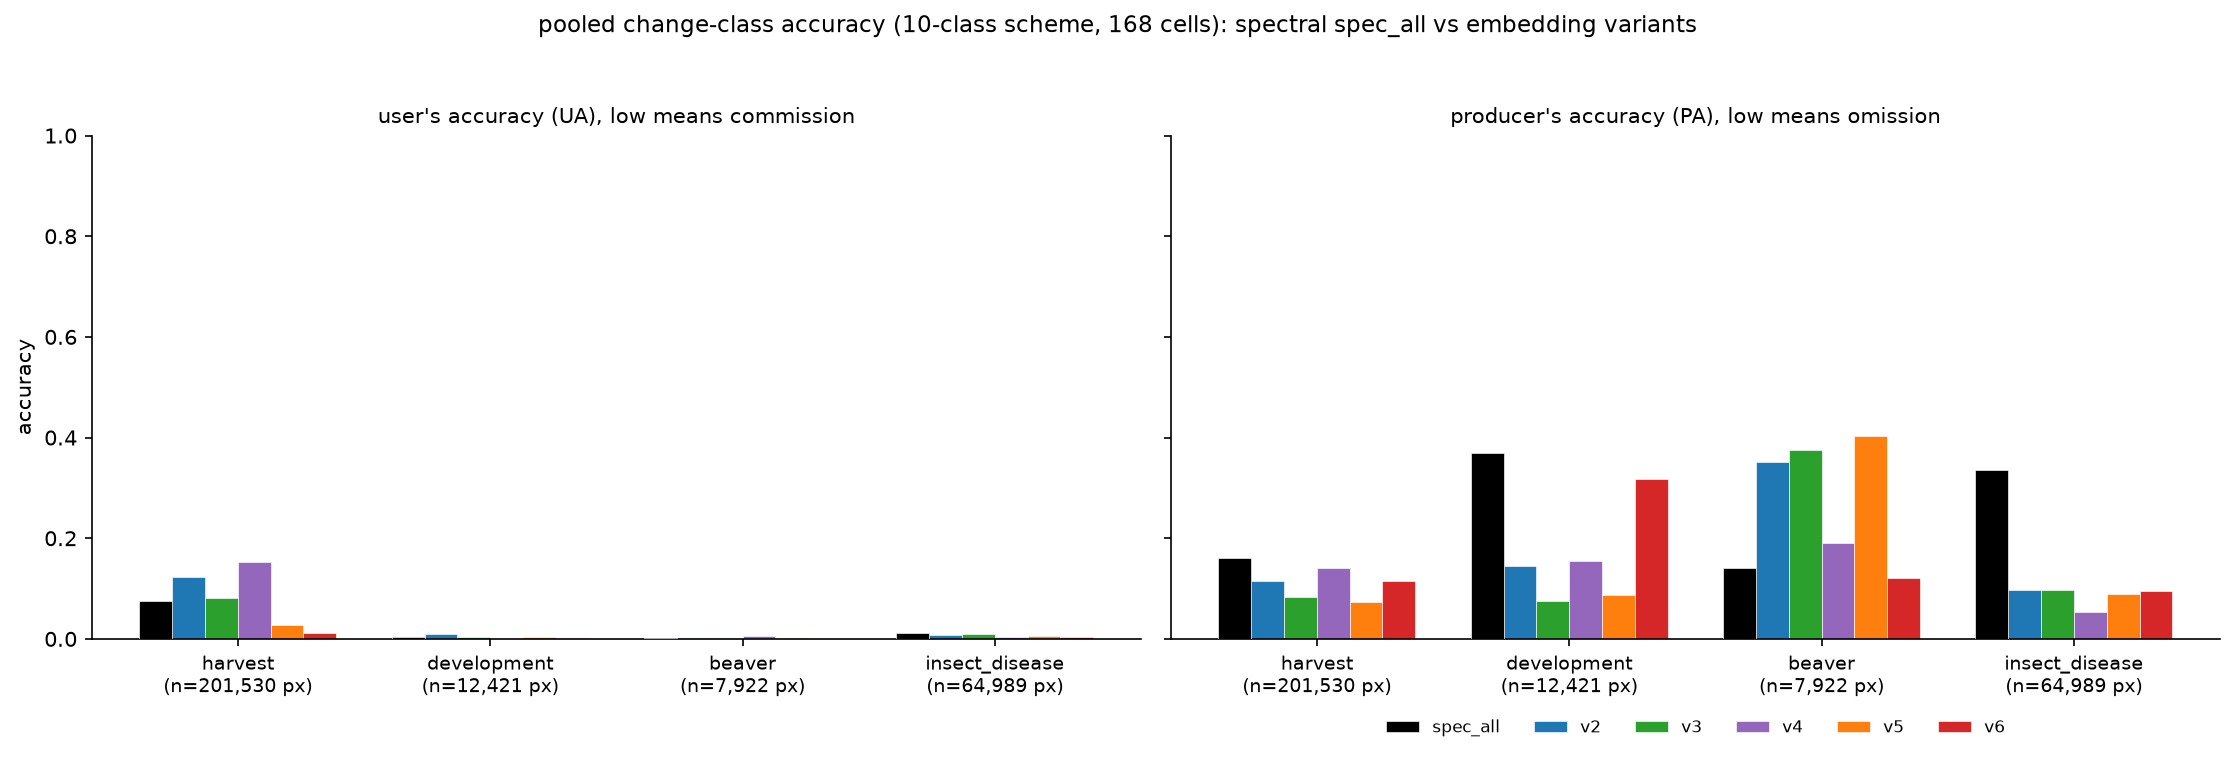
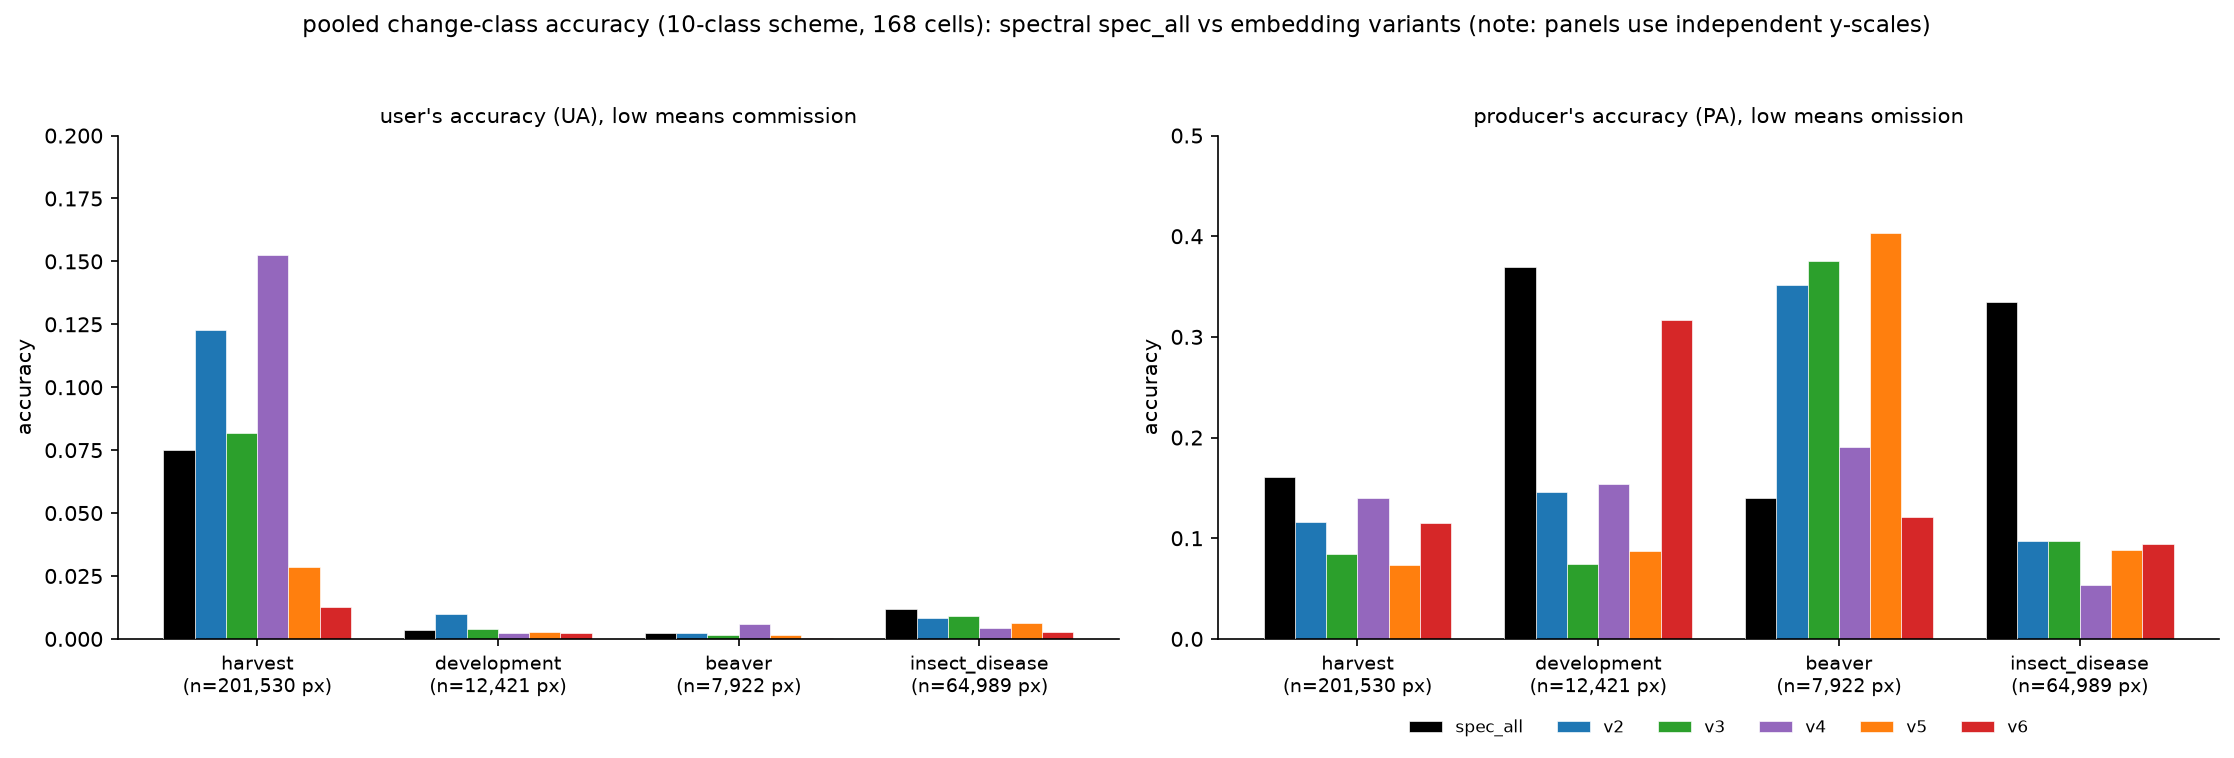
Add change-class mapped-area figure with interpreted reference; rescale UA panel
New compare_change_classes_area_pooled.png shows each map's share of pixels per
change class against the interpreted reference (black bar), on the same 168
cells (embedding variants recomputed on that set for fairness). It exposes the
commission problem directly: the interpreted reference maps almost no change
area (beaver 0.04%, development 0.07%), yet every model over-maps it heavily
(v3/v5 paint ~10% of area as beaver, a 150-250x over-mapping). spec_all is drawn
in brown here since black is reserved for the interpreted reference; the UA/PA
figure keeps spec_all black and is unaffected.

Also rescales the two panels of compare_change_classes_pooled.png to independent
y-axes so the low UA bars are legible.

diff --git a/scripts/build_spectral_confusion.py b/scripts/build_spectral_confusion.py
@@ -168,6 +168,29 @@ def embedding_pooled_matrix(variant):
     return M
 
 
+EMB_PRED_DIR = "data/raw/transfer_predictions"
+EMB_BAND = {"v2": 1, "v3": 2, "v4": 3, "v5": 4, "v6": 5}   # 5-band embedding prediction order
+
+
+def embedding_matrix_on_cells(chosen_ref, cells_used, variant):
+    """Pooled 10x10 embedding matrix for one variant on exactly the cells spec_all scored, so the
+    mapped-area comparison is on the same 168 cells rather than the full 180."""
+    band = EMB_BAND[variant]
+    M = np.zeros((10, 10), np.int64)
+    for bracket in BRACKETS:
+        for cid in cells_used[bracket]:
+            rp = chosen_ref[cid]
+            pp = os.path.join(EMB_PRED_DIR, bracket, f"pred_{bracket}_cell{cid}.tif")
+            with rasterio.open(pp) as pds, rasterio.open(rp) as rds:
+                pred = pds.read(band)
+                ref_raw = rds.read(1)
+            safe = np.where((ref_raw >= 0) & (ref_raw <= 62), ref_raw, 0)
+            ref = _REF_LUT[safe]
+            valid = (ref >= 1) & (ref <= 10) & (pred >= 1) & (pred <= 10)
+            np.add.at(M, (ref[valid] - 1, pred[valid] - 1), 1)
+    return M
+
+
 def write_note(chosen_desc, cells_used, cells_present, skipped, unmapped, spectral_long):
     long = pd.DataFrame(spectral_long)
     low = []
@@ -370,14 +393,17 @@ def fig_change_classes_pooled(combined, path):
     sup = {c: int(spec_sub.loc[c, "support"]) for c in codes}
     x = np.arange(len(codes))
     w = 0.13
-    fig, axes = plt.subplots(1, 2, figsize=(15, 5.2), sharey=True)
+    # independent y-scales: UA tops out much lower than PA, so a shared axis flattens the UA bars
+    fig, axes = plt.subplots(1, 2, figsize=(15, 5.2))
     panels = [(axes[0], "precision", "user's accuracy (UA), low means commission"),
               (axes[1], "recall", "producer's accuracy (PA), low means omission")]
     for ax, metric, title in panels:
+        panel_max = 0.0
         for i, src in enumerate(sources):
             s = sub[sub.source == src].set_index("class_code")
             vals = [pd.to_numeric(s.loc[c, metric], errors="coerce") if c in s.index else np.nan
                     for c in codes]
+            panel_max = max(panel_max, np.nanmax(vals))
             spec = src == "spectral_specall"
             ax.bar(x + (i - 2.5) * w, vals, w, color=src_color(src), edgecolor="white",
                    linewidth=0.3, zorder=3 if spec else 2,
@@ -385,13 +411,55 @@ def fig_change_classes_pooled(combined, path):
         ax.set_xticks(x)
         ax.set_xticklabels([f"{NAMES[c]}\n(n={sup[c]:,} px)" for c in codes], fontsize=9)
         ax.set_title(title, fontsize=10)
-        ax.set_ylim(0, 1)
+        # round the top up to a clean tick above the tallest bar so each panel fills its own range
+        ax.set_ylim(0, np.ceil(panel_max * 11) / 10)
         _style(ax)
-    axes[0].set_ylabel("accuracy")
+    for ax in axes:
+        ax.set_ylabel("accuracy")
     axes[1].legend(fontsize=8, frameon=False, ncol=6, loc="upper center", bbox_to_anchor=(0.5, -0.13))
     fig.suptitle("pooled change-class accuracy (10-class scheme, 168 cells): spectral spec_all vs "
-                 "embedding variants", fontsize=11)
+                 "embedding variants (note: panels use independent y-scales)", fontsize=11)
     fig.tight_layout(rect=[0, 0, 1, 0.95])
+    fig.savefig(path, dpi=150, bbox_inches="tight")
+    plt.close(fig)
+
+
+SPEC_AREA_COLOR = "#8c564b"   # spec_all in the area figure; black is reserved for interpreted here
+
+
+def fig_change_classes_area(pooled_spec, emb_mats, path):
+    """Mapped-area comparison for the four change classes on the shared cells: the fraction of pixels
+    each map assigns to the class, plus the interpreted reference fraction. Over-mapping relative to
+    interpreted is a commission tendency, under-mapping is an omission tendency.
+    """
+    import matplotlib
+    matplotlib.use("Agg")
+    import matplotlib.pyplot as plt
+    codes = CHANGE_CLASSES
+    total = pooled_spec.sum()
+    interp = pooled_spec.sum(1) / total                 # reference marginal (row sums), same for all
+    fracs = [("interpreted", "black", pooled_spec.sum(1) / total)]   # interpreted is the reference bar
+    fracs.append(("spec_all", SPEC_AREA_COLOR, pooled_spec.sum(0) / pooled_spec.sum()))
+    for v in EMB_VARIANTS:
+        M = emb_mats[v]
+        fracs.append((v, VPAL[v], M.sum(0) / M.sum()))
+    x = np.arange(len(codes))
+    w = 0.115
+    fig, ax = plt.subplots(figsize=(13, 5.4))
+    for i, (name, color, fr) in enumerate(fracs):
+        vals = [fr[c - 1] for c in codes]
+        ax.bar(x + (i - 3) * w, vals, w, color=color, edgecolor="white", linewidth=0.3,
+               label=name, zorder=3 if name in ("interpreted", "spec_all") else 2)
+    ax.set_xticks(x)
+    ax.set_xticklabels([f"{NAMES[c]}\n(interpreted {interp[c - 1] * 100:.2f}% of area)" for c in codes],
+                       fontsize=9)
+    ax.set_ylabel("fraction of mapped pixels")
+    ax.set_title("pooled change-class mapped area (10-class scheme, 168 cells): each map's share of "
+                 "pixels vs the interpreted reference\n(bar above interpreted = over-mapping / "
+                 "commission tendency, below = under-mapping / omission)", fontsize=10)
+    ax.legend(fontsize=8, frameon=False, ncol=7, loc="upper center", bbox_to_anchor=(0.5, -0.13))
+    _style(ax)
+    fig.tight_layout()
     fig.savefig(path, dpi=150, bbox_inches="tight")
     plt.close(fig)
 
@@ -497,8 +565,13 @@ def main():
     fig_change_ua(combined, os.path.join(CMP, "compare_change_class_ua_by_bracket.png"))
     fig_change_classes_pooled(combined, os.path.join(CMP, "compare_change_classes_pooled.png"))
 
+    # mapped-area figure: embedding variants recomputed on the same 168 cells spec_all scored
+    emb_mats = {v: embedding_matrix_on_cells(chosen_ref, cells_used, v) for v in EMB_VARIANTS}
+    fig_change_classes_area(pooled, emb_mats,
+                            os.path.join(CMP, "compare_change_classes_area_pooled.png"))
+
     print(f"\nwrote {OUT}/ (6 matrices, spectral_metrics_long.csv, note.md) and "
-          f"{CMP}/ (combined table, overall table, 5 figures)")
+          f"{CMP}/ (combined table, overall table, 6 figures)")
 
 
 if __name__ == "__main__":